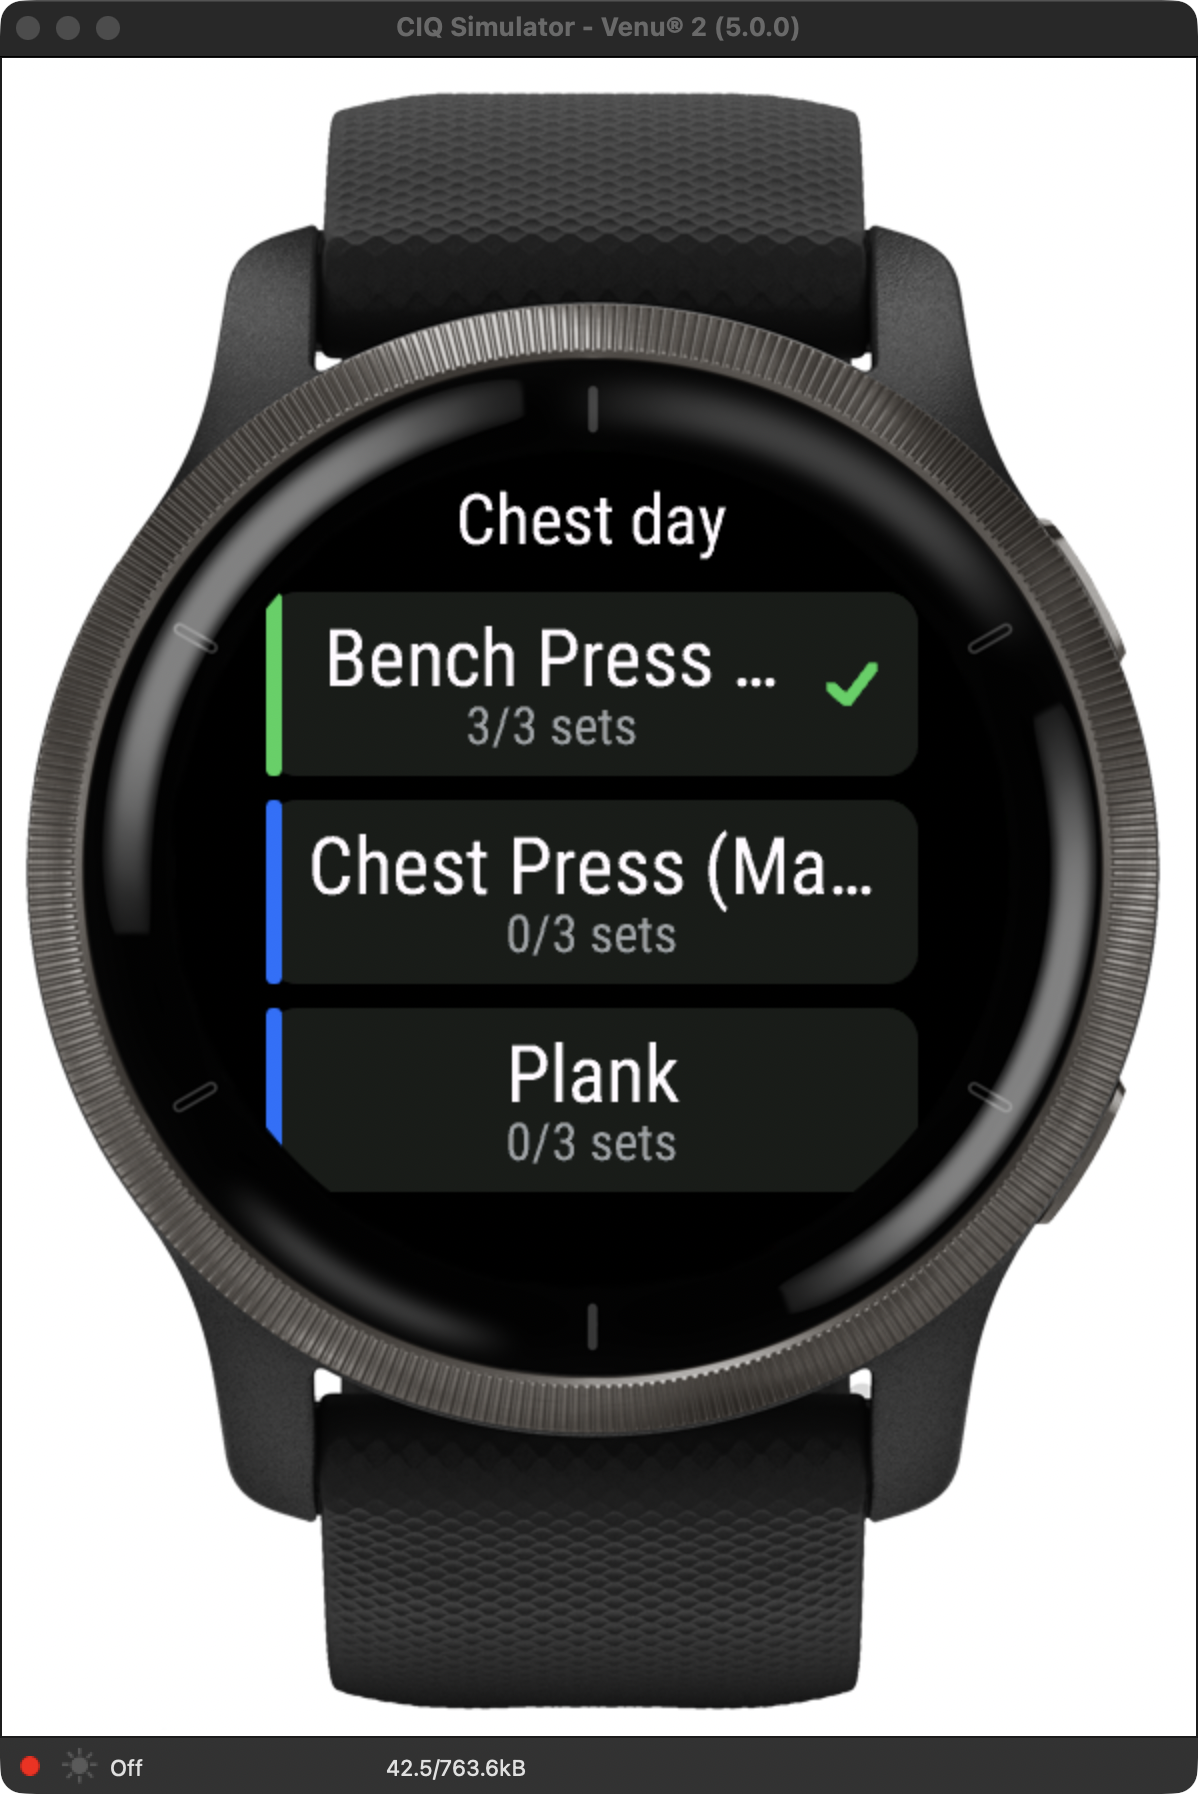
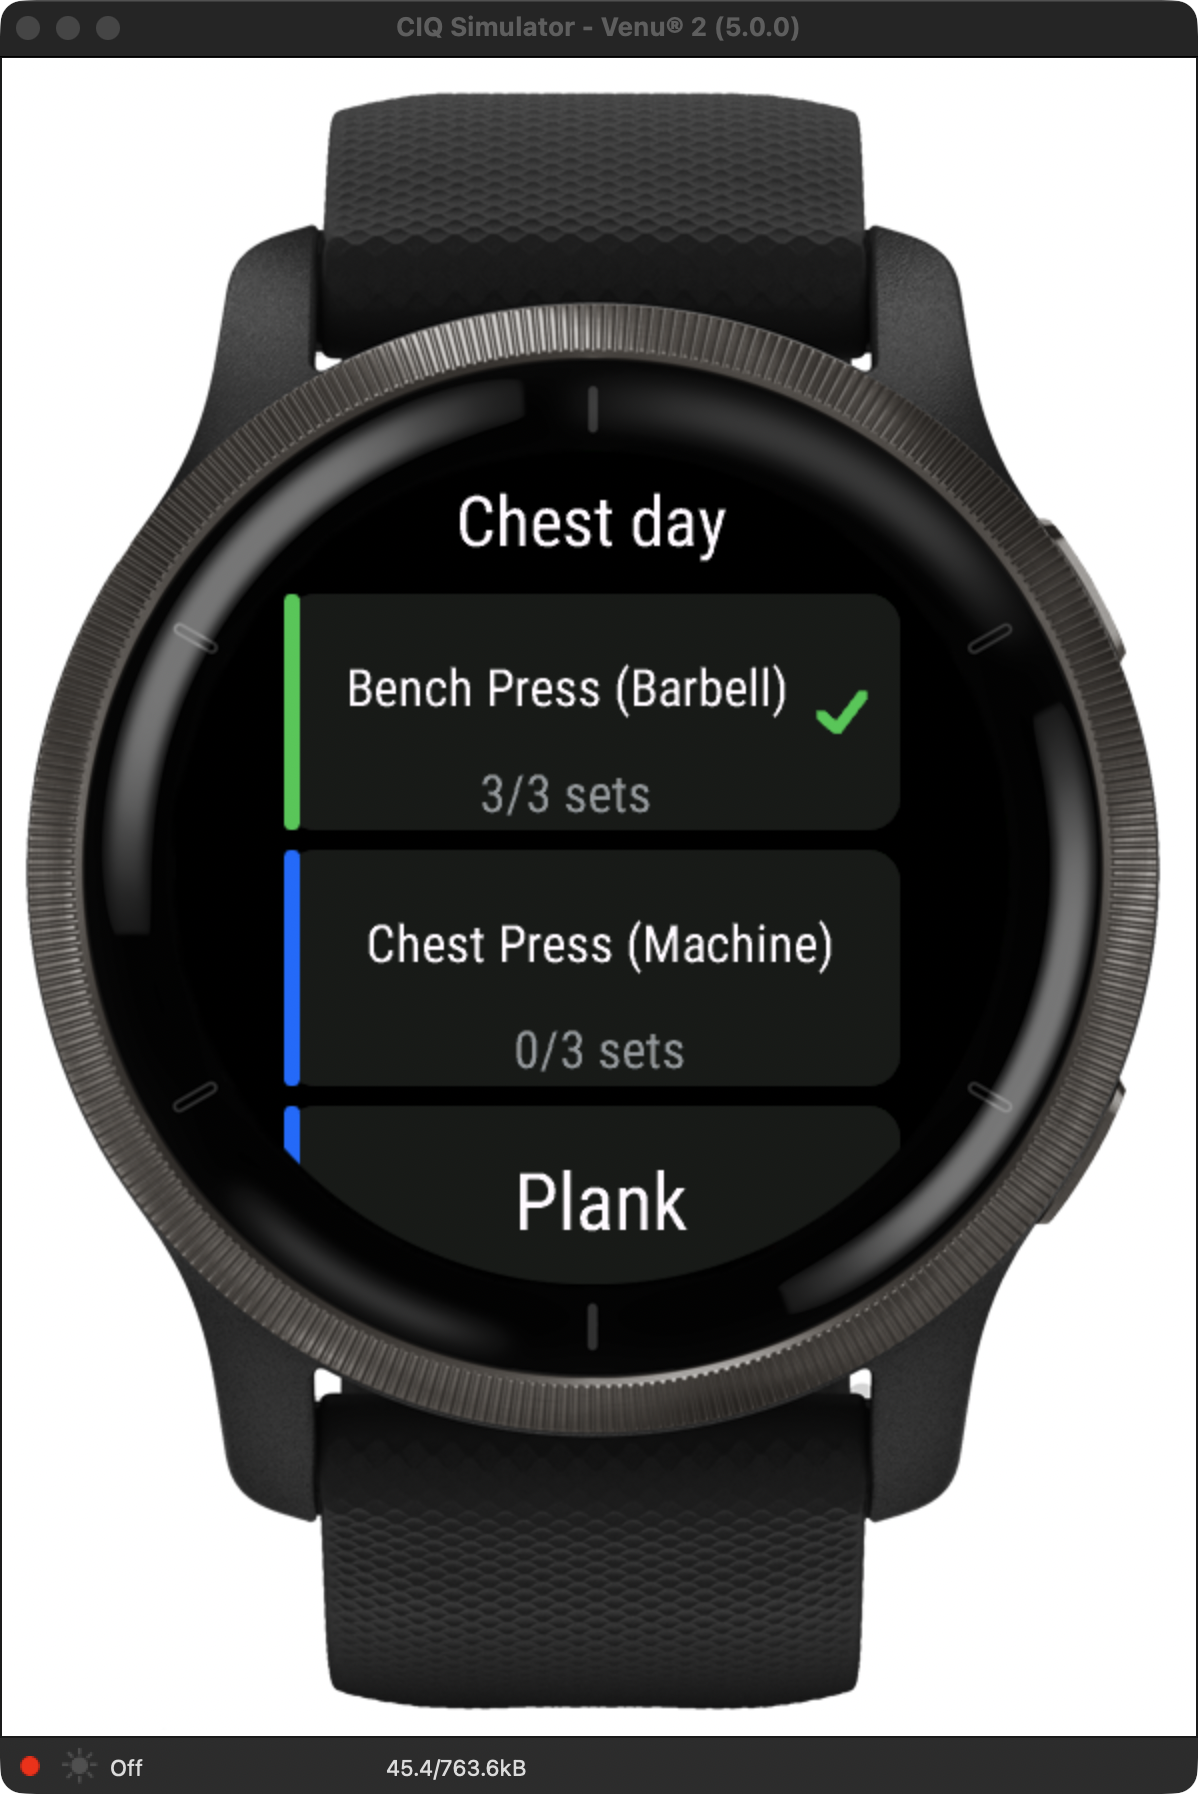
Previous workout preload the dropdowns

Changed region(s): [[0.2162, 0.3122, 0.7721, 0.7179], [0.3706, 0.2809, 0.6177, 0.3122], [0.3397, 0.9677, 0.3706, 0.9989]]

diff --git a/CLAUDE.md b/CLAUDE.md
@@ -106,14 +106,41 @@ SampleData.mc       bundled "Chest day" demo routine (fake template ids)
   `exercise_template_id` and set `type` can all be null/missing from
   API-created routines; `getTextWidthInPixels(null)` crashes mid-workout. Use
   `WorkoutSession.currentTitle()` and the existing null-coalescing patterns.
+- **Planned reps may be a range, not a number.** A set can carry
+  `rep_range: {start, end}` instead of `reps` (common for bodyweight work). Read
+  it via `WorkoutSession.repRange()`; never fall back to an invented default
+  when a range exists. The range is shown next to the set counter ("Set 1 / 3 ·
+  10–15").
+- **Bodyweight exercises have no weight column.** When no set of an exercise
+  plans a `weight_kg` (`WorkoutSession.exerciseHasWeight()`), `SetView` drops
+  the weight box entirely and centres a single wider REPS box — showing "–" in a
+  dead KG field was noise.
+- **"Last time" beats the routine plan.** `History` (source/History.mc) holds the
+  most recent performed sets per exercise and `SetView` pre-fills from it,
+  showing "last 62.5 kg × 9" next to the set counter. Built from ONE
+  `GET /v1/workouts?pageSize=5` at routine start — the per-exercise alternative
+  (`GET /v1/exercise_history/{id}`) would be one request per exercise AND returns
+  the complete unbounded history, which is wrong for a BLE-connected watch.
+  Warm-up sets are skipped; the list is newest-first, so the first workout
+  containing an exercise is the most recent one.
 - **Lists:** subclass `CustomMenu`/`CustomMenuItem`; the item draw hook is
   **`draw(dc)`**, not `onDraw`. Don't reuse parent field names (`mTitle`,
   `mLabel`) — they're protected; prefix subclass fields.
 - **Glyphs:** hearts / play / pause / check / chevron do NOT render in device
   fonts — draw them as shapes (`Theme.drawHeart` etc.).
 - **Layout:** everything is a fraction of `screenWidth/Height`, kept inside the
-  round bezel. Titles use `Theme.bestFont` (auto-shrink) + `Theme.fit`
-  (ellipsis). Give text real spacing — don't cram.
+  round bezel. Give text real spacing — don't cram.
+- **Multi-line text: use `WatchUi.TextArea`** (API 3.1+), not `dc.drawText`.
+  `drawText` is a raw canvas call — it never wraps and never shrinks. `TextArea`
+  wraps to as many lines as fit and picks the largest font from a list you pass
+  in (`:font => [FONT_SMALL, FONT_TINY, FONT_XTINY]`); it is a `Drawable`, so it
+  can be drawn straight inside `CustomMenuItem.draw(dc)`. The list cards use it
+  for exercise/routine titles, which are long user data ("Bench Press
+  (Barbell)") and were previously ellipsized to uselessness. Note a
+  `CustomMenuItem` is drawn **taller when focused**, so cache the TextArea per
+  height and rebuild when `dc.getHeight()` changes.
+  For single-line labels `Theme.bestFont` (auto-shrink) + `Theme.fit` (ellipsis)
+  are still fine.
 - **Recording lifecycle (important):** a running `ActivityRecording` **blocks
   Garmin sleep tracking**. It MUST be ended on every workout exit — done in
   `SummaryView.onShow`, `ExerciseListDelegate.onBack`, and `AppBase.onStop`. See

diff --git a/README.md b/README.md
@@ -27,6 +27,9 @@ finished workout back.
 - 📋 **Your routines, live** from Hevy — all pages, not just the first ten.
 - ✅ **Exercise list** with per-exercise set progress and completion checks.
 - 🔢 **Guided sets** — tap to adjust reps and weight, confirm, move on.
+- 📈 **"Last time" as your target** — the app pulls your previous session for each
+  exercise and pre-fills the weight and reps you actually managed, so you can
+  push from there instead of guessing.
 - ⏱ **Rest countdown** (+15 s) and a **timer** for duration and distance sets.
 - 💾 **Logs back to Hevy** — and if the phone is away, the workout is kept and
   offered for resending on the next launch. Nothing is lost.
